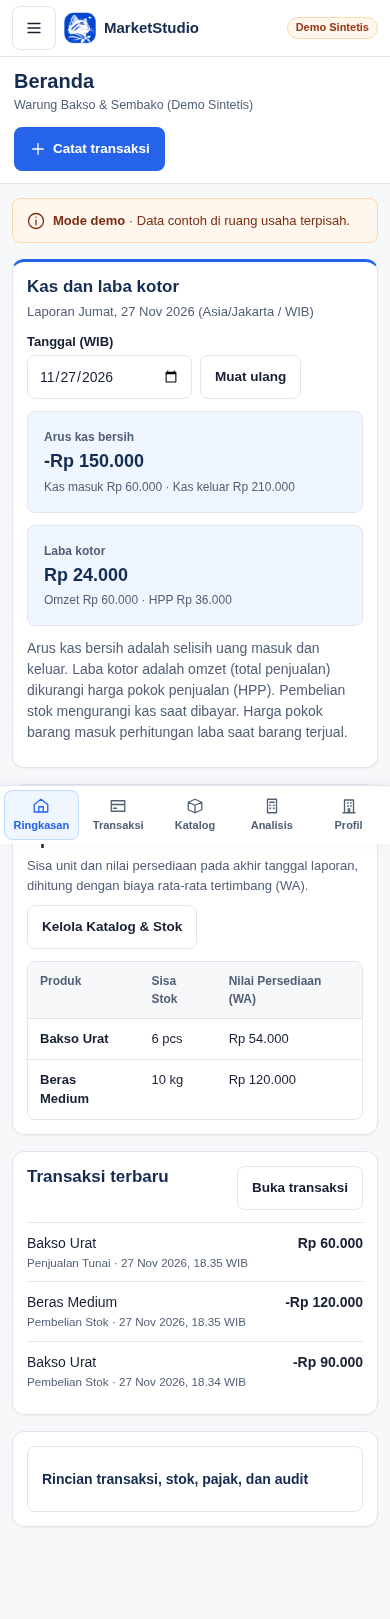
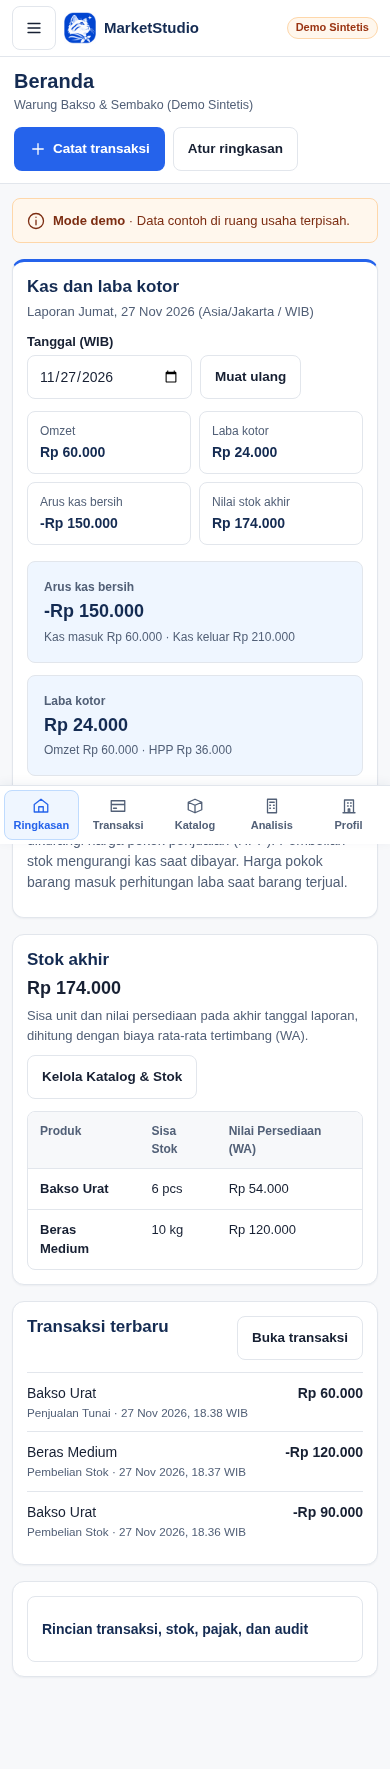
feat(#62): add per-workspace summary preferences

Changed region(s): [[0.0308, 0.0, 0.9538, 0.9265], [0.7385, 0.0, 0.9538, 0.0309], [0.7077, 0.3397, 0.7385, 0.3706]]

diff --git a/app/web/index.html b/app/web/index.html
@@ -574,6 +574,32 @@
       border-top: 3px solid var(--accent);
     }
 
+    .quick-metrics {
+      display: grid;
+      grid-template-columns: repeat(4, minmax(0, 1fr));
+      gap: 8px;
+      margin: 0 0 16px;
+    }
+
+    .quick-metrics > div {
+      padding: 10px 12px;
+      border: 1px solid var(--border);
+      border-radius: var(--radius);
+    }
+
+    .quick-metrics dt {
+      color: var(--muted);
+      font-size: 12px;
+    }
+
+    .quick-metrics dd {
+      margin: 2px 0 0;
+      color: var(--brand-navy);
+      font-weight: 700;
+      font-variant-numeric: tabular-nums;
+      overflow-wrap: anywhere;
+    }
+
     .report-metrics {
       display: grid;
       grid-template-columns: repeat(2, minmax(0, 1fr));
@@ -614,6 +640,85 @@
       white-space: normal;
     }
 
+    .stock-alert {
+      margin: 12px 0 0;
+      padding: 10px 12px;
+      border-radius: var(--radius);
+      background: var(--warn-bg);
+      color: var(--warn);
+    }
+
+    .summary-drawer {
+      position: fixed;
+      inset: 0 0 0 auto;
+      width: min(420px, 100%);
+      max-width: 100%;
+      height: 100dvh;
+      max-height: 100dvh;
+      margin: 0;
+      padding: 20px;
+      border: 0;
+      border-left: 1px solid var(--border);
+      background: var(--surface);
+      color: var(--text);
+      overflow-y: auto;
+      overscroll-behavior: contain;
+    }
+
+    .summary-drawer::backdrop {
+      background: rgba(15, 23, 42, 0.45);
+    }
+
+    .drawer-icon-btn {
+      display: grid;
+      place-items: center;
+      width: 44px;
+      height: 44px;
+      padding: 0;
+    }
+
+    .module-picker {
+      display: grid;
+      gap: 10px;
+      margin: 16px 0;
+      padding: 0;
+      border: 0;
+    }
+
+    .module-option {
+      display: grid;
+      grid-template-columns: 30px minmax(0, 1fr) 20px;
+      align-items: center;
+      gap: 12px;
+      min-height: 64px;
+      padding: 12px;
+      border: 1px solid var(--border);
+      border-radius: var(--radius-lg);
+      cursor: pointer;
+    }
+
+    .module-option:hover {
+      background: var(--canvas);
+    }
+
+    .module-option .ui-icon {
+      color: var(--accent);
+    }
+
+    .module-option small {
+      display: block;
+      color: var(--muted);
+    }
+
+    .module-option input[type="checkbox"] {
+      width: 18px;
+      height: 18px;
+      min-width: 0;
+      min-height: 0;
+      margin: 0;
+      accent-color: var(--accent);
+    }
+
     .recent-list {
       list-style: none;
       margin: 0;
@@ -648,6 +753,11 @@
       #dailyReport, #reportDetailsCard {
         grid-column: 1 / -1;
       }
+
+      #homeStockCard:has(+ #homeRecentCard.hidden),
+      #homeStockCard.hidden + #homeRecentCard {
+        grid-column: 1 / -1;
+      }
     }
 
     @media (max-width: 900px) {
@@ -666,6 +776,10 @@
     }
 
     @media (max-width: 540px) {
+      .quick-metrics {
+        grid-template-columns: repeat(2, minmax(0, 1fr));
+      }
+
       .report-metrics {
         grid-template-columns: minmax(0, 1fr);
       }
@@ -1192,6 +1306,41 @@
   <div id="globalLiveRegion" class="sr-only" aria-live="polite" aria-atomic="true"></div>
   <div id="drawerBackdrop" class="drawer-backdrop" aria-hidden="true"></div>
 
+  <dialog id="summaryDrawer" class="summary-drawer" aria-labelledby="summaryDrawerTitle">
+    <div class="card-header">
+      <div>
+        <h2 id="summaryDrawerTitle">Atur ringkasan</h2>
+        <p id="summaryDrawerContext" class="muted"></p>
+      </div>
+      <form method="dialog">
+        <button type="submit" class="btn btn-secondary drawer-icon-btn" aria-label="Tutup pengaturan ringkasan" autofocus>
+          <svg class="ui-icon" viewBox="0 0 24 24" aria-hidden="true" focusable="false"><use href="#icon-close"/></svg>
+        </button>
+      </form>
+    </div>
+    <p class="muted">Pilih modul yang ingin ditampilkan. Kas dan laba kotor selalu tersedia.</p>
+    <fieldset class="module-picker">
+      <legend class="sr-only">Modul opsional</legend>
+      <label class="module-option">
+        <svg class="ui-icon" viewBox="0 0 24 24" aria-hidden="true" focusable="false"><use href="#icon-chart"/></svg>
+        <span><strong>Angka ringkas</strong><small>Omzet, laba kotor, arus kas bersih, dan nilai stok akhir.</small></span>
+        <input type="checkbox" data-summary-module="quickMetrics" />
+      </label>
+      <label class="module-option">
+        <svg class="ui-icon" viewBox="0 0 24 24" aria-hidden="true" focusable="false"><use href="#icon-box"/></svg>
+        <span><strong>Stok dan stok habis</strong><small>Nilai persediaan akhir dan barang dengan stok saat ini nol.</small></span>
+        <input type="checkbox" data-summary-module="homeStockCard" />
+      </label>
+      <label class="module-option">
+        <svg class="ui-icon" viewBox="0 0 24 24" aria-hidden="true" focusable="false"><use href="#icon-card"/></svg>
+        <span><strong>Transaksi terbaru</strong><small>Tiga transaksi terakhir pada tanggal laporan.</small></span>
+        <input type="checkbox" data-summary-module="homeRecentCard" />
+      </label>
+    </fieldset>
+    <button id="restoreSummaryBtn" type="button" class="btn btn-secondary">Pulihkan tampilan</button>
+    <p id="summaryPreferenceStatus" class="status" aria-live="polite"></p>
+  </dialog>
+
   <div class="app-shell">
     <aside id="appSidebar" class="sidebar" aria-label="Menu utama studio">
       <div>
@@ -1326,6 +1475,7 @@
         </div>
         <div class="top-bar-actions">
           <a href="#transaksi" class="btn btn-primary hidden" id="homeTransactionBtn"><svg class="ui-icon" viewBox="0 0 24 24" aria-hidden="true" focusable="false"><use href="#icon-plus"/></svg><span>Catat transaksi</span></a>
+          <button id="openSummaryBtn" type="button" class="btn btn-secondary hidden" aria-haspopup="dialog" aria-controls="summaryDrawer">Atur ringkasan</button>
         </div>
       </header>
 
@@ -1383,12 +1533,18 @@
                 </div>
               </div>
 
+              <dl id="quickMetrics" class="quick-metrics" aria-label="Angka ringkas">
+                <div><dt>Omzet</dt><dd id="quickRevenue"></dd></div>
+                <div><dt>Laba kotor</dt><dd id="quickProfit"></dd></div>
+                <div><dt>Arus kas bersih</dt><dd id="quickCash"></dd></div>
+                <div><dt>Nilai stok akhir</dt><dd id="quickInventory"></dd></div>
+              </dl>
               <div id="kpiGrid" class="report-metrics"></div>
               <p id="cashVsProfitNote" class="report-note hidden"></p>
               <div id="reportStatus" class="status" aria-live="polite"></div>
             </div>
 
-            <div class="card">
+            <div class="card" id="homeStockCard">
               <div class="card-header">
                 <div>
                   <h2>Stok akhir</h2>
@@ -1397,6 +1553,7 @@
                 </div>
                 <a href="#katalog" class="btn btn-secondary">Kelola Katalog &amp; Stok</a>
               </div>
+              <div id="homeStockAlert" class="stock-alert hidden"></div>
               <div class="table-wrap stock-summary">
                 <table>
                   <thead>
@@ -1411,7 +1568,7 @@
               </div>
             </div>
 
-            <div class="card">
+            <div class="card" id="homeRecentCard">
               <div class="card-header">
                 <h2>Transaksi terbaru</h2>
                 <a href="#transaksi" class="btn btn-secondary">Buka transaksi</a>
@@ -2317,6 +2474,10 @@
 
     const pageTitle = document.getElementById("pageTitle");
     const homeTransactionBtn = document.getElementById("homeTransactionBtn");
+    const openSummaryBtn = document.getElementById("openSummaryBtn");
+    const summaryDrawer = document.getElementById("summaryDrawer");
+    const summaryModules = Array.from(summaryDrawer.querySelectorAll("[data-summary-module]"));
+    const summaryPreferenceStatus = document.getElementById("summaryPreferenceStatus");
 
     const wsStatus = document.getElementById("wsStatus");
     const onbWsStatus = document.getElementById("onbWsStatus");
@@ -2569,11 +2730,61 @@
 
     let currentRoute = "ringkasan";
 
+    function summaryPreferenceKey() {
+      return `marketstudio_summary_hidden:${activeWorkspaceId}`;
+    }
+
+    function renderSummaryPreferences() {
+      let hidden = [];
+      try {
+        const saved = JSON.parse(localStorage.getItem(summaryPreferenceKey()));
+        if (Array.isArray(saved)) hidden = saved;
+      } catch {
+        // An unreadable preference falls back to the default layout.
+      }
+      for (const checkbox of summaryModules) {
+        const moduleId = checkbox.dataset.summaryModule;
+        checkbox.checked = !hidden.includes(moduleId);
+        document.getElementById(moduleId).classList.toggle("hidden", !checkbox.checked);
+      }
+    }
+
+    function saveSummaryPreferences(restore = false) {
+      if (!activeWorkspaceId) return;
+      const key = summaryPreferenceKey();
+      try {
+        if (restore) {
+          localStorage.removeItem(key);
+        } else {
+          const hidden = summaryModules.filter(input => !input.checked).map(input => input.dataset.summaryModule);
+          localStorage.setItem(key, JSON.stringify(hidden));
+        }
+        setStatus(summaryPreferenceStatus, restore ? "Tampilan bawaan dipulihkan." : "Pilihan modul tersimpan.");
+      } catch {
+        setStatus(summaryPreferenceStatus, "Pilihan gagal disimpan. Periksa pengaturan penyimpanan browser.", "err");
+      }
+      renderSummaryPreferences();
+    }
+
+    openSummaryBtn.addEventListener("click", () => {
+      document.getElementById("summaryDrawerContext").textContent = getActiveWorkspace()?.name || "";
+      setStatus(summaryPreferenceStatus, "");
+      summaryDrawer.showModal();
+    });
+    summaryDrawer.addEventListener("close", () => {
+      if (!openSummaryBtn.classList.contains("hidden")) openSummaryBtn.focus();
+    });
+    summaryModules.forEach(input => input.addEventListener("change", () => saveSummaryPreferences()));
+    document.getElementById("restoreSummaryBtn").addEventListener("click", () => saveSummaryPreferences(true));
+
     function updateHomeAction() {
       const hasOfferings = offeringsCache.length > 0;
       homeTransactionBtn.href = hasOfferings ? "#transaksi" : "#katalog";
       homeTransactionBtn.querySelector("span").textContent = hasOfferings ? "Catat transaksi" : "Tambah produk atau jasa";
       homeTransactionBtn.classList.toggle("hidden", currentRoute !== "ringkasan" || !activeWorkspaceId || catalogWorkspaceId !== activeWorkspaceId);
+      const showSummaryButton = currentRoute === "ringkasan" && Boolean(getActiveWorkspace());
+      openSummaryBtn.classList.toggle("hidden", !showSummaryButton);
+      if (!showSummaryButton && summaryDrawer.open) summaryDrawer.close();
     }
 
     function applyRoute(routeInfo, updateHash = false) {
@@ -2702,6 +2913,7 @@
 
       const hasWs = Boolean(ws);
       updateHomeAction();
+      renderSummaryPreferences();
       document.getElementById("posterNoWorkspace").classList.toggle("hidden", hasWs);
       document.getElementById("posterMain").classList.toggle("hidden", !hasWs);
       if (currentRoute === "studio-creative" && hasWs) loadPosterStudio();
@@ -2748,11 +2960,13 @@
       catalogWorkspaceId = "";
       offeringsCache = [];
       activeReportCache = null;
-      for (const id of ["kpiGrid", "stockValue", "ringkasanStockBody", "homeRecentList", "txRecentBody",
+      for (const id of ["kpiGrid", "quickRevenue", "quickProfit", "quickCash", "quickInventory",
+        "stockValue", "ringkasanStockBody", "homeRecentList", "txRecentBody",
         "drillTxBody", "drillStockBody", "drillAuditBody", "drillDownPre", "taxNote", "offeringTableBody"]) {
         document.getElementById(id).textContent = "";
       }
       document.getElementById("cashVsProfitNote").classList.add("hidden");
+      document.getElementById("homeStockAlert").classList.add("hidden");
       document.getElementById("reportPeriodLabel").textContent = "Memuat tanggal laporan…";
       document.getElementById("transactionPeriodLabel").textContent = "";
       for (const id of ["saleForm", "purchaseForm"]) {
@@ -3080,6 +3294,14 @@
       offeringsCache = data.items || [];
       catalogWorkspaceId = reqWsId;
       updateHomeAction();
+      const stockAlert = document.getElementById("homeStockAlert");
+      const soldOut = offeringsCache.filter(item => item.requires_stock_movement && item.qty_on_hand === "0");
+      stockAlert.classList.toggle("hidden", soldOut.length === 0);
+      if (soldOut.length) {
+        const names = soldOut.slice(0, 3).map(item => item.name).join(", ");
+        const remaining = soldOut.length > 3 ? ` dan ${soldOut.length - 3} lainnya` : "";
+        stockAlert.textContent = `Stok habis saat ini · ${names}${remaining}`;
+      }
       offBody.textContent = "";
       purOffering.textContent = "";
       saleOffering.textContent = "";
@@ -3431,11 +3653,16 @@
 
         const { cash_in_idr, cash_out_idr, net_cash_flow_idr, revenue_idr, cogs_idr, gross_profit_idr } = report;
         const inventory = report.ending_inventory?.total_value_idr ?? 0;
+        const grossProfit = gross_profit_idr === null ? "Belum dinilai" : fmtIdr(gross_profit_idr);
+        document.getElementById("quickRevenue").textContent = fmtIdr(revenue_idr);
+        document.getElementById("quickProfit").textContent = grossProfit;
+        document.getElementById("quickCash").textContent = fmtIdr(net_cash_flow_idr);
+        document.getElementById("quickInventory").textContent = fmtIdr(inventory);
         const grid = document.getElementById("kpiGrid");
         grid.replaceChildren(
           makeKpiCard("Arus kas bersih", fmtIdr(net_cash_flow_idr), "", "",
             `Kas masuk ${fmtIdr(cash_in_idr)} · Kas keluar ${fmtIdr(cash_out_idr)}`),
-          makeKpiCard("Laba kotor", gross_profit_idr === null ? "Belum dinilai" : fmtIdr(gross_profit_idr), "", "",
+          makeKpiCard("Laba kotor", grossProfit, "", "",
             `Omzet ${fmtIdr(revenue_idr)} · HPP ${cogs_idr === null ? "belum dinilai" : fmtIdr(cogs_idr)}`)
         );
         const cashNote = document.getElementById("cashVsProfitNote");

diff --git a/docs/design-system/DESIGN_SYSTEM.md b/docs/design-system/DESIGN_SYSTEM.md
@@ -27,6 +27,7 @@ Button: default/hover/focus/disabled/loading; loading mencegah duplicate submit.
 - **Pertahankan posisi dan perilaku kontrol.** Sidebar tetap memuat seluruh Studio, termasuk Creative Studio. Navigasi cepat di ponsel menandai halaman aktif dan drawer mengembalikan fokus saat ditutup dengan Escape. Tab memakai tombol panah serta Home/End. Kontrol sentuh berukuran minimal 44 × 44 piksel, dengan fokus keyboard terlihat. Ikon garis memakai SVG inline 24 × 24 dan warna teks. Ikon dekoratif memakai `aria-hidden`, aksi utama memakai label teks, dan tombol ikon saja memiliki nama aksesibel. Gunakan lockup MarketStudio di sidebar dan potongan mark dari PNG yang sama di header ringkas dan favicon. Ini menerapkan Jakob’s Law dan Fitts’s Law.
 - **Minta isian saat konteksnya tersedia.** Pilih produk atau jasa sebelum menampilkan kuantitas dan nominal transaksi. Di Analisis, tampilkan kolom survei manual saat sumber itu dipilih. Kaitkan error ke field dengan `aria-describedby` dan `aria-invalid`, jelaskan cara memperbaikinya, pertahankan input, lalu fokuskan field pertama yang perlu diperbaiki. Beri status saat menyimpan dan hasil yang dapat diperiksa pada riwayat atau laporan di tanggal transaksi.
 - **Tunjukkan konteks data pada titik keputusan.** Tandai demo pada workspace dan halaman, serta tampilkan sumber dan periode data historis di hasil analisis. Gunakan narasi singkat untuk menjelaskan perbedaan makna angka. Tempatkan jejak audit, status pajak, dan mutasi stok pada rincian laporan.
+- **Pisahkan pengaturan dari pekerjaan utama.** Aksi sekunder “Atur ringkasan” membuka dialog samping dengan pilihan modul dan “Pulihkan tampilan”. Terapkan pilihan segera dan simpan daftar modul tersembunyi di browser per `workspace_id`. Pertahankan modul kas dan laba sebagai bagian tetap. Dialog menahan fokus selama terbuka, dapat ditutup dengan Escape, mengembalikan fokus ke pemicu, dan dapat digulir pada layar pendek. Untuk stok habis, tampilkan barang dengan jumlah nol dari katalog saat ini. Nilai stok akhir tetap mengikuti tanggal laporan.
 
 Rujukan prinsip ada di [Laws of UX](https://lawsofux.com/). Bukti penerapan pada 390 dan 1440 piksel tersedia di [verifikasi Issue #62](evidence/issue-62/README.md).
 

diff --git a/docs/design-system/evidence/issue-62/README.md b/docs/design-system/evidence/issue-62/README.md
@@ -8,11 +8,13 @@ Pembanding memakai `origin/main` pada `e3f35e9` setelah Creative Studio digabung
 | Beranda dengan demo | [Sebelum](before-demo-390.png) · [Sesudah](after-demo-390.png) | [Sebelum](before-demo-1440.png) · [Sesudah](after-demo-1440.png) |
 | Validasi jumlah melebihi stok | [Ponsel](after-validation-390.png) | [Desktop](after-validation-1440.png) |
 | Beranda setelah penjualan | [Ponsel](after-result-390.png) | [Desktop](after-result-1440.png) |
+| Panel Atur ringkasan | [Ponsel](after-drawer-390.png) | [Desktop](after-drawer-1440.png) |
 
 ## Hasil
 
 - Playwright lulus pada kedua lebar. Uji mencakup CTA sesuai state, logo lokal, ukuran kontrol ponsel, fokus keyboard, menu dan tab, identitas demo, replay idempoten, error stok dan isian yang tetap, serta penjualan dan pembaruan laporan. Uji juga membuka Katalog, Analisis dan input survei manual, membuat draft poster, membuka pratinjau, mengunduh SVG dari Creative Studio, dan beralih kembali ke usaha tanpa transaksi.
 - Fixture menunjukkan arus kas bersih −Rp150.000, laba kotor Rp24.000, dan stok akhir Rp174.000. Penjualan barang Rp15.000 muncul pertama di transaksi terbaru dan mengubah arus kas bersih menjadi −Rp135.000.
+- Kedua lebar lulus pengujian panel Atur ringkasan. Enter membuka dialog, Escape menutupnya dan mengembalikan fokus, dan panel dapat digulir pada viewport ponsel yang dipendekkan. Pilihan demo bertahan setelah muat ulang, tampilan usaha pemilik memiliki pilihan sendiri, dan pemulihan tampilan demo hanya mengatur ulang preferensi demo. Barang baru yang jumlahnya nol tampil sebagai “Stok habis saat ini”.
 - `python3 -W error::ResourceWarning -m unittest discover -s tests -v` selesai dengan exit 0. Ada 47 kasus, dengan 8 kasus PostgreSQL dilewati karena URL pengujian PostgreSQL belum dikonfigurasi.
 - `python3 scripts/check_repository.py` dan `git diff --check` selesai dengan exit 0.
 
